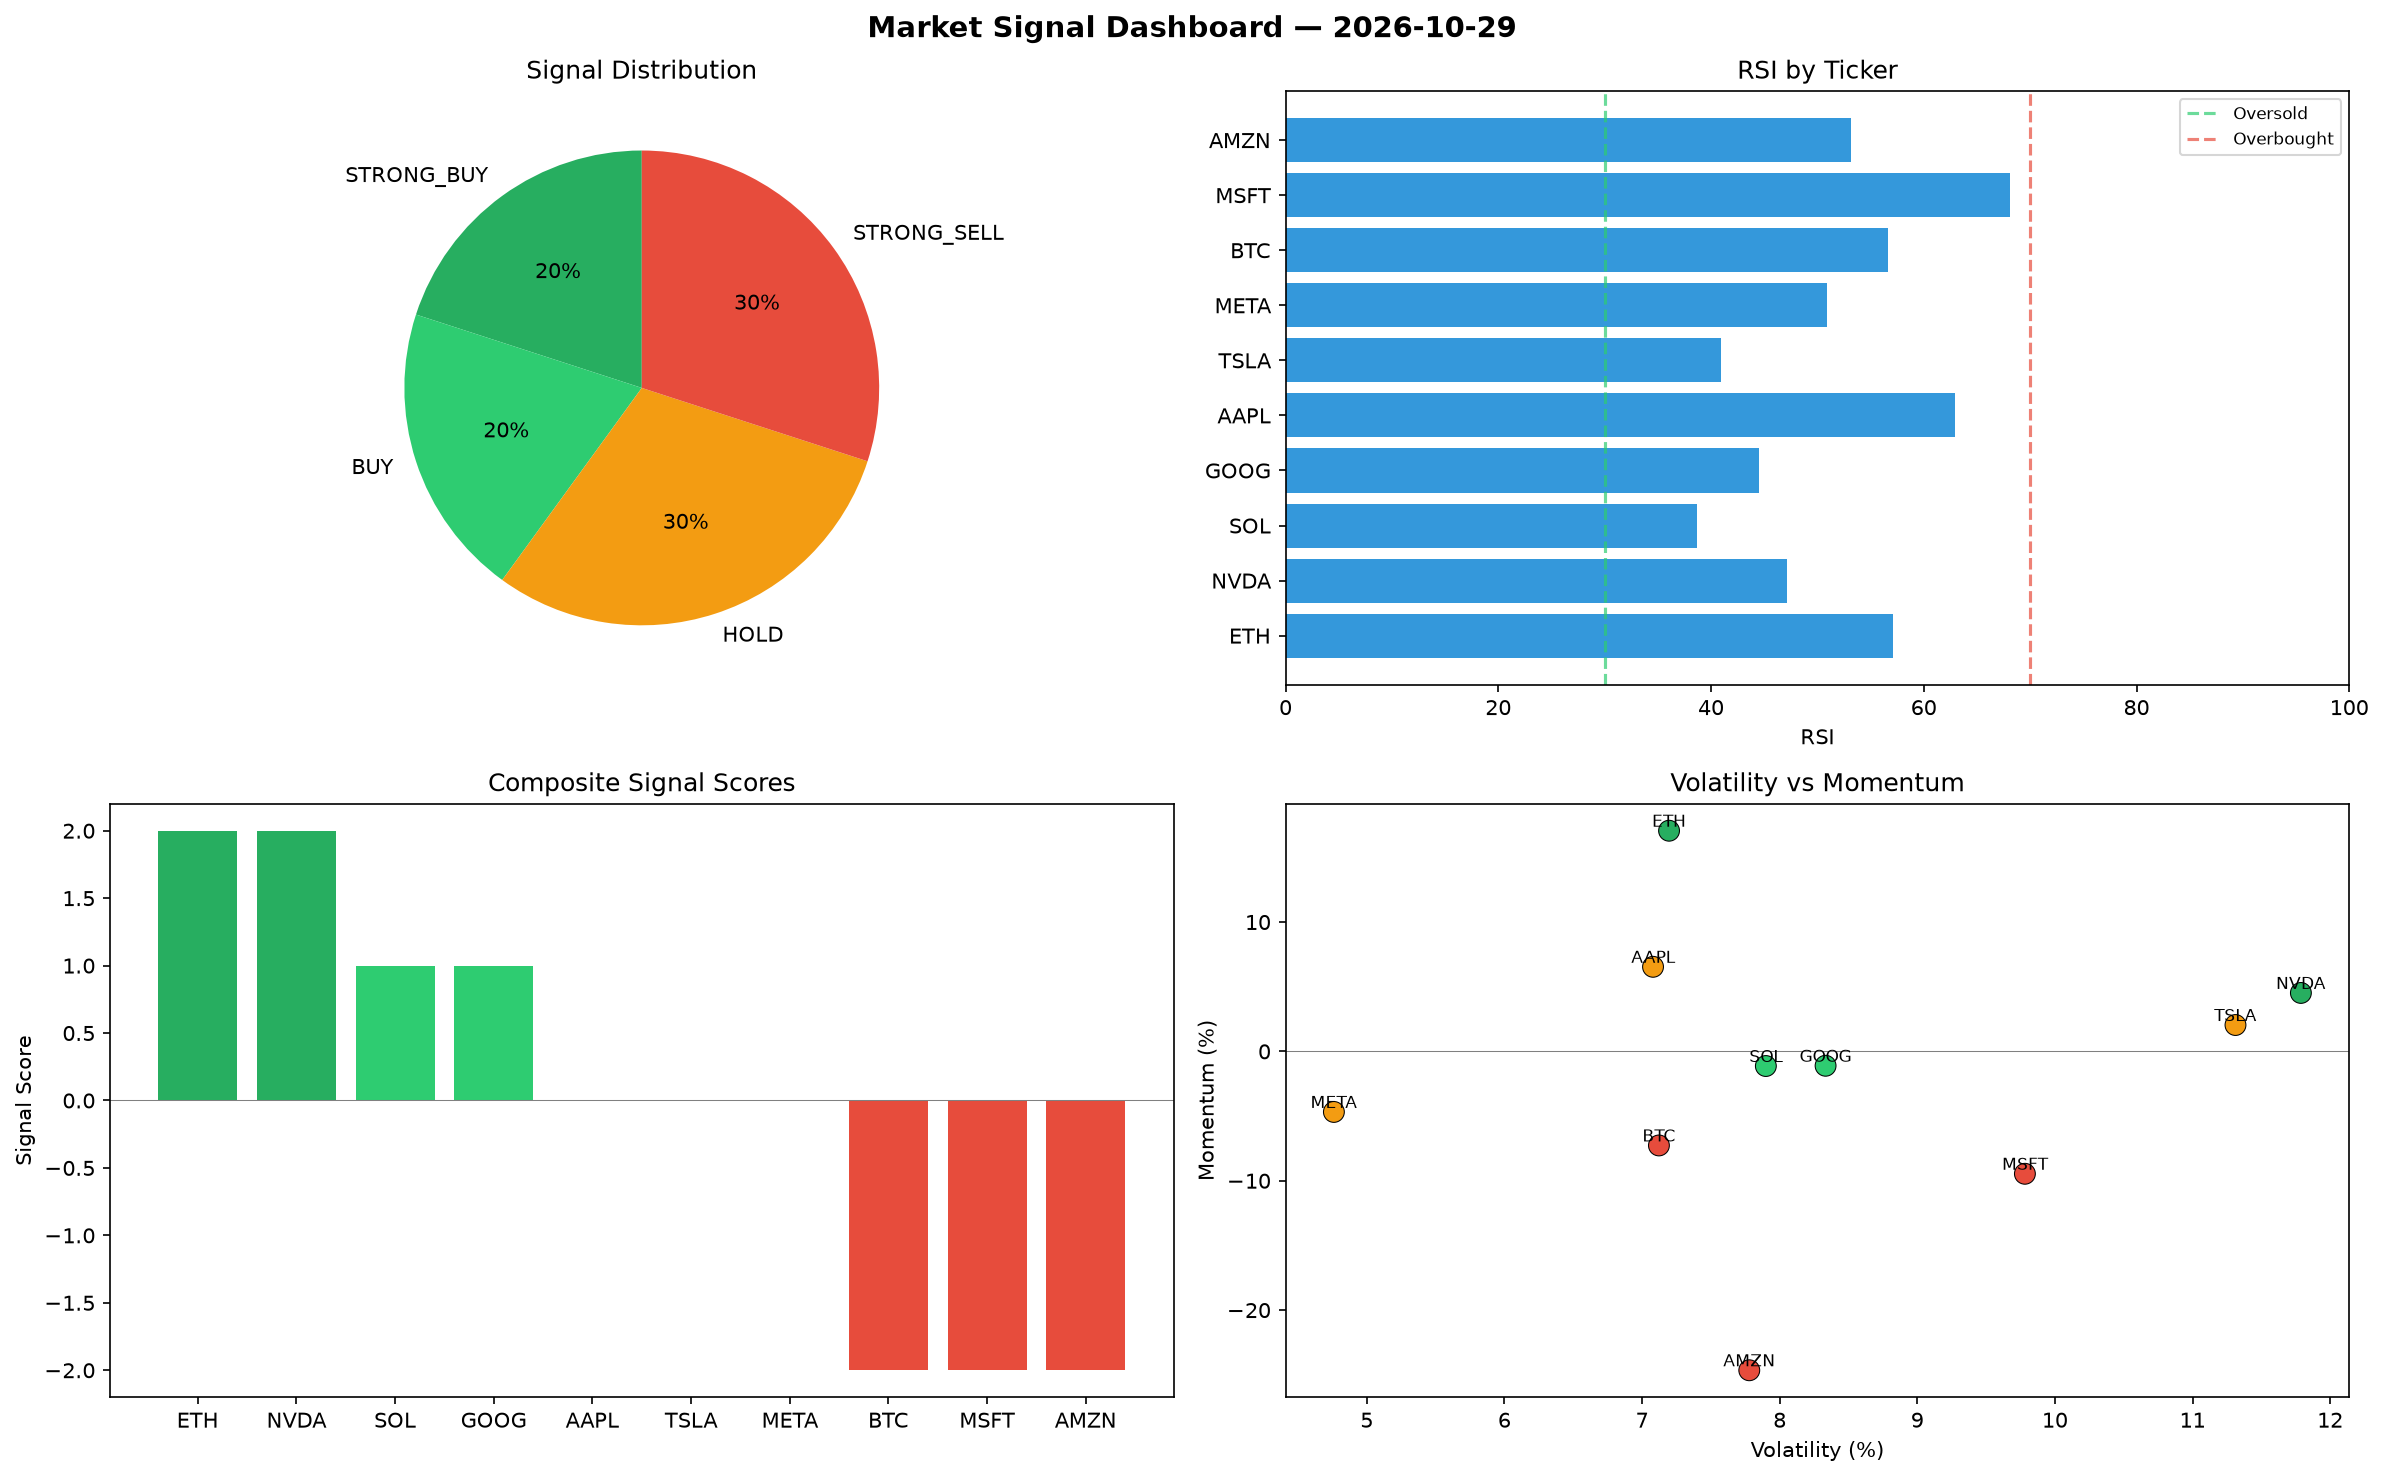
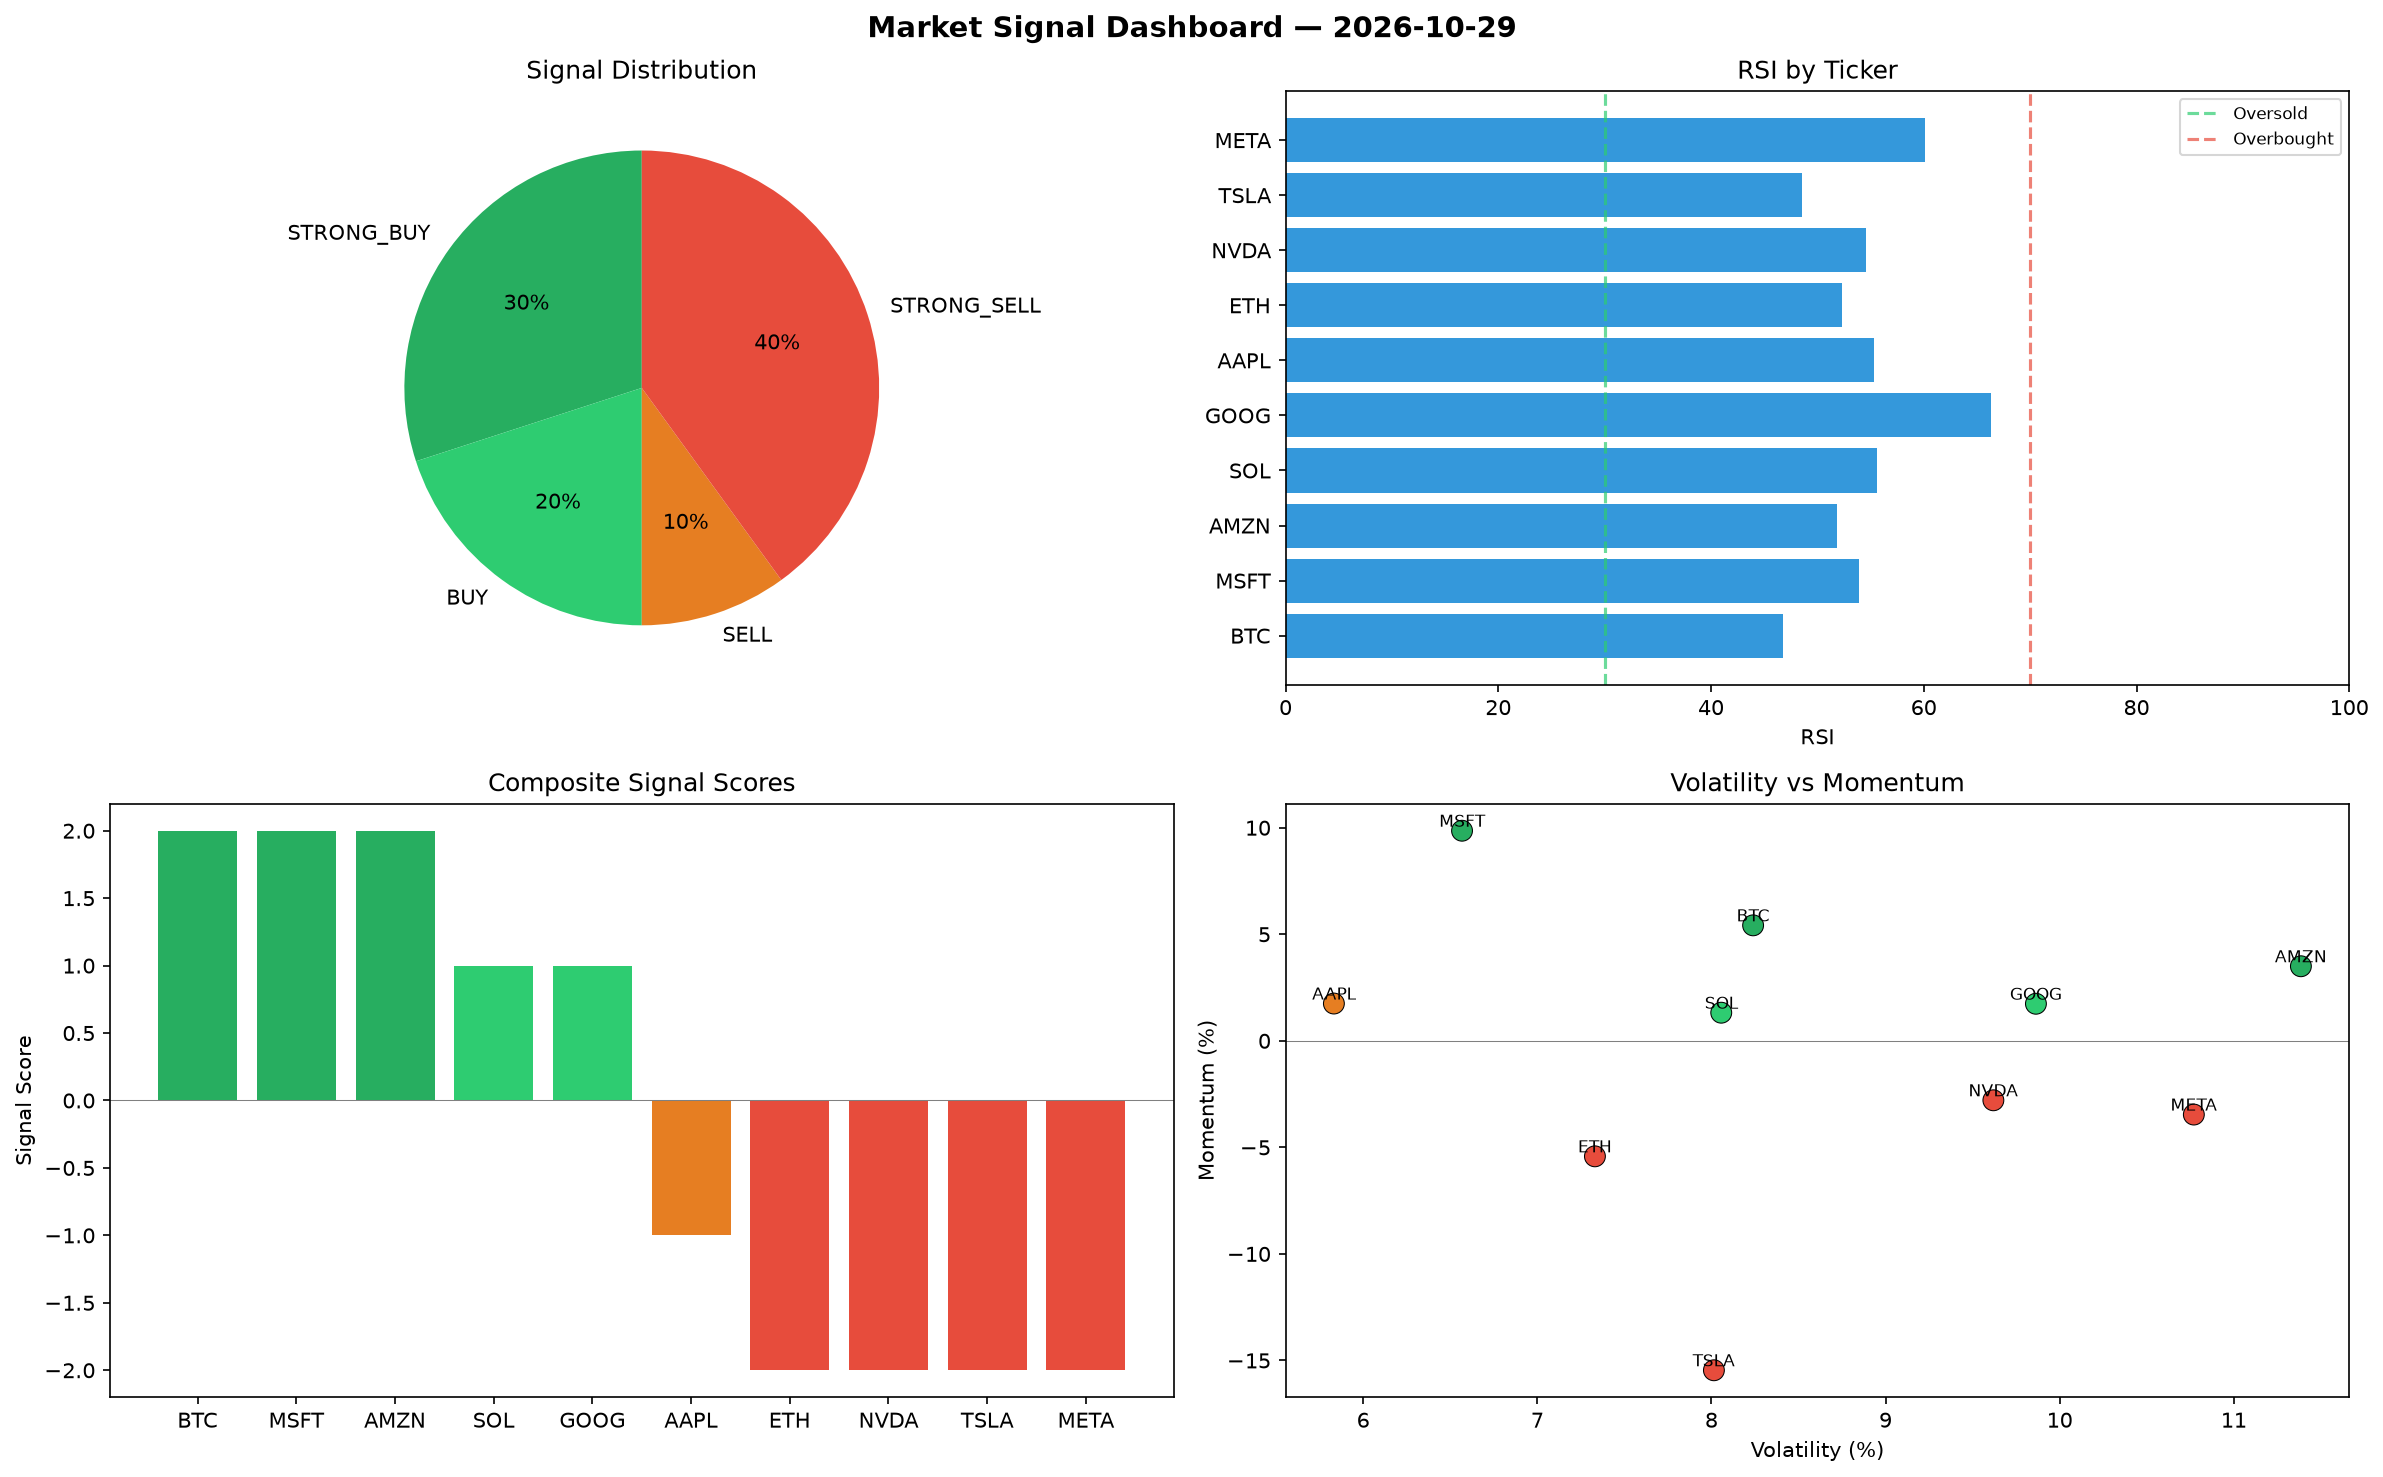
automated-bots: market signals 2026-10-29T19:46

diff --git a/logs/2026-10-29.md b/logs/2026-10-29.md
@@ -1,6 +1,6 @@
 # Market Signal Report — 2026-10-29
 
-**Run ID:** `7c71293e97` | **Buy:** 4 | **Sell:** 3 | **Hold:** 3
+**Run ID:** `7089af961f` | **Buy:** 5 | **Sell:** 5 | **Hold:** 0
 
 ![Dashboard](2026-10-29_dashboard.png)
 
@@ -8,28 +8,28 @@
 
 | Ticker | Price | Signal | Score | RSI | Momentum | Confidence |
 |--------|-------|--------|-------|-----|----------|------------|
-| ETH | $1940.94 | **STRONG_BUY** | 2 | 57.13 | 0.1706 | 0.5 |
-| NVDA | $2345.39 | **STRONG_BUY** | 2 | 47.14 | 0.0452 | 0.5 |
-| SOL | $3610.62 | **BUY** | 1 | 38.7 | -0.0113 | 0.25 |
-| GOOG | $3972.61 | **BUY** | 1 | 44.51 | -0.0111 | 0.25 |
-| AAPL | $4675.83 | **HOLD** | 0 | 62.96 | 0.0654 | 0.0 |
-| TSLA | $2815.31 | **HOLD** | 0 | 40.92 | 0.0204 | 0.0 |
-| META | $1829.67 | **HOLD** | 0 | 50.94 | -0.0468 | 0.0 |
-| BTC | $2973.82 | **STRONG_SELL** | -2 | 56.68 | -0.0727 | 0.5 |
-| MSFT | $1081.09 | **STRONG_SELL** | -2 | 68.07 | -0.0946 | 0.5 |
-| AMZN | $1180.72 | **STRONG_SELL** | -2 | 53.17 | -0.2465 | 0.5 |
+| BTC | $1234.44 | **STRONG_BUY** | 2 | 46.78 | 0.0542 | 0.5 |
+| MSFT | $3015.13 | **STRONG_BUY** | 2 | 53.94 | 0.0986 | 0.5 |
+| AMZN | $996.67 | **STRONG_BUY** | 2 | 51.82 | 0.035 | 0.5 |
+| SOL | $4326.87 | **BUY** | 1 | 55.61 | 0.0132 | 0.25 |
+| GOOG | $3832.95 | **BUY** | 1 | 66.34 | 0.0174 | 0.25 |
+| AAPL | $3370.21 | **SELL** | -1 | 55.35 | 0.0175 | 0.25 |
+| ETH | $2357.05 | **STRONG_SELL** | -2 | 52.29 | -0.0542 | 0.5 |
+| NVDA | $3687.1 | **STRONG_SELL** | -2 | 54.59 | -0.0279 | 0.5 |
+| TSLA | $2088.29 | **STRONG_SELL** | -2 | 48.57 | -0.1546 | 0.5 |
+| META | $876.58 | **STRONG_SELL** | -2 | 60.09 | -0.0346 | 0.5 |
 
 ## Delta vs Yesterday
 
 | Ticker | Today | Yesterday | Price Change | Signal Changed |
 |--------|-------|-----------|-------------|----------------|
-| ETH | STRONG_BUY | STRONG_SELL | 📈 87.87% | ⚠ YES |
-| NVDA | STRONG_BUY | STRONG_SELL | 📉 -19.17% | ⚠ YES |
-| SOL | BUY | STRONG_BUY | 📈 22.93% | ⚠ YES |
-| GOOG | BUY | SELL | 📈 31.64% | ⚠ YES |
-| AAPL | HOLD | HOLD | 📈 45.95% | — |
-| TSLA | HOLD | BUY | 📈 113.72% | ⚠ YES |
-| META | HOLD | HOLD | 📉 -40.09% | — |
-| BTC | STRONG_SELL | HOLD | 📈 333.03% | ⚠ YES |
-| MSFT | STRONG_SELL | STRONG_SELL | 📉 -77.29% | — |
-| AMZN | STRONG_SELL | STRONG_BUY | 📈 274.94% | ⚠ YES |
+| BTC | STRONG_BUY | HOLD | 📈 79.75% | ⚠ YES |
+| MSFT | STRONG_BUY | STRONG_SELL | 📉 -36.65% | ⚠ YES |
+| AMZN | STRONG_BUY | STRONG_BUY | 📈 216.49% | — |
+| SOL | BUY | STRONG_BUY | 📈 47.32% | ⚠ YES |
+| GOOG | BUY | SELL | 📈 27.01% | ⚠ YES |
+| AAPL | SELL | HOLD | 📈 5.2% | ⚠ YES |
+| ETH | STRONG_SELL | STRONG_SELL | 📈 128.15% | — |
+| NVDA | STRONG_SELL | STRONG_SELL | 📈 27.07% | — |
+| TSLA | STRONG_SELL | BUY | 📈 58.53% | ⚠ YES |
+| META | STRONG_SELL | HOLD | 📉 -71.3% | ⚠ YES |
